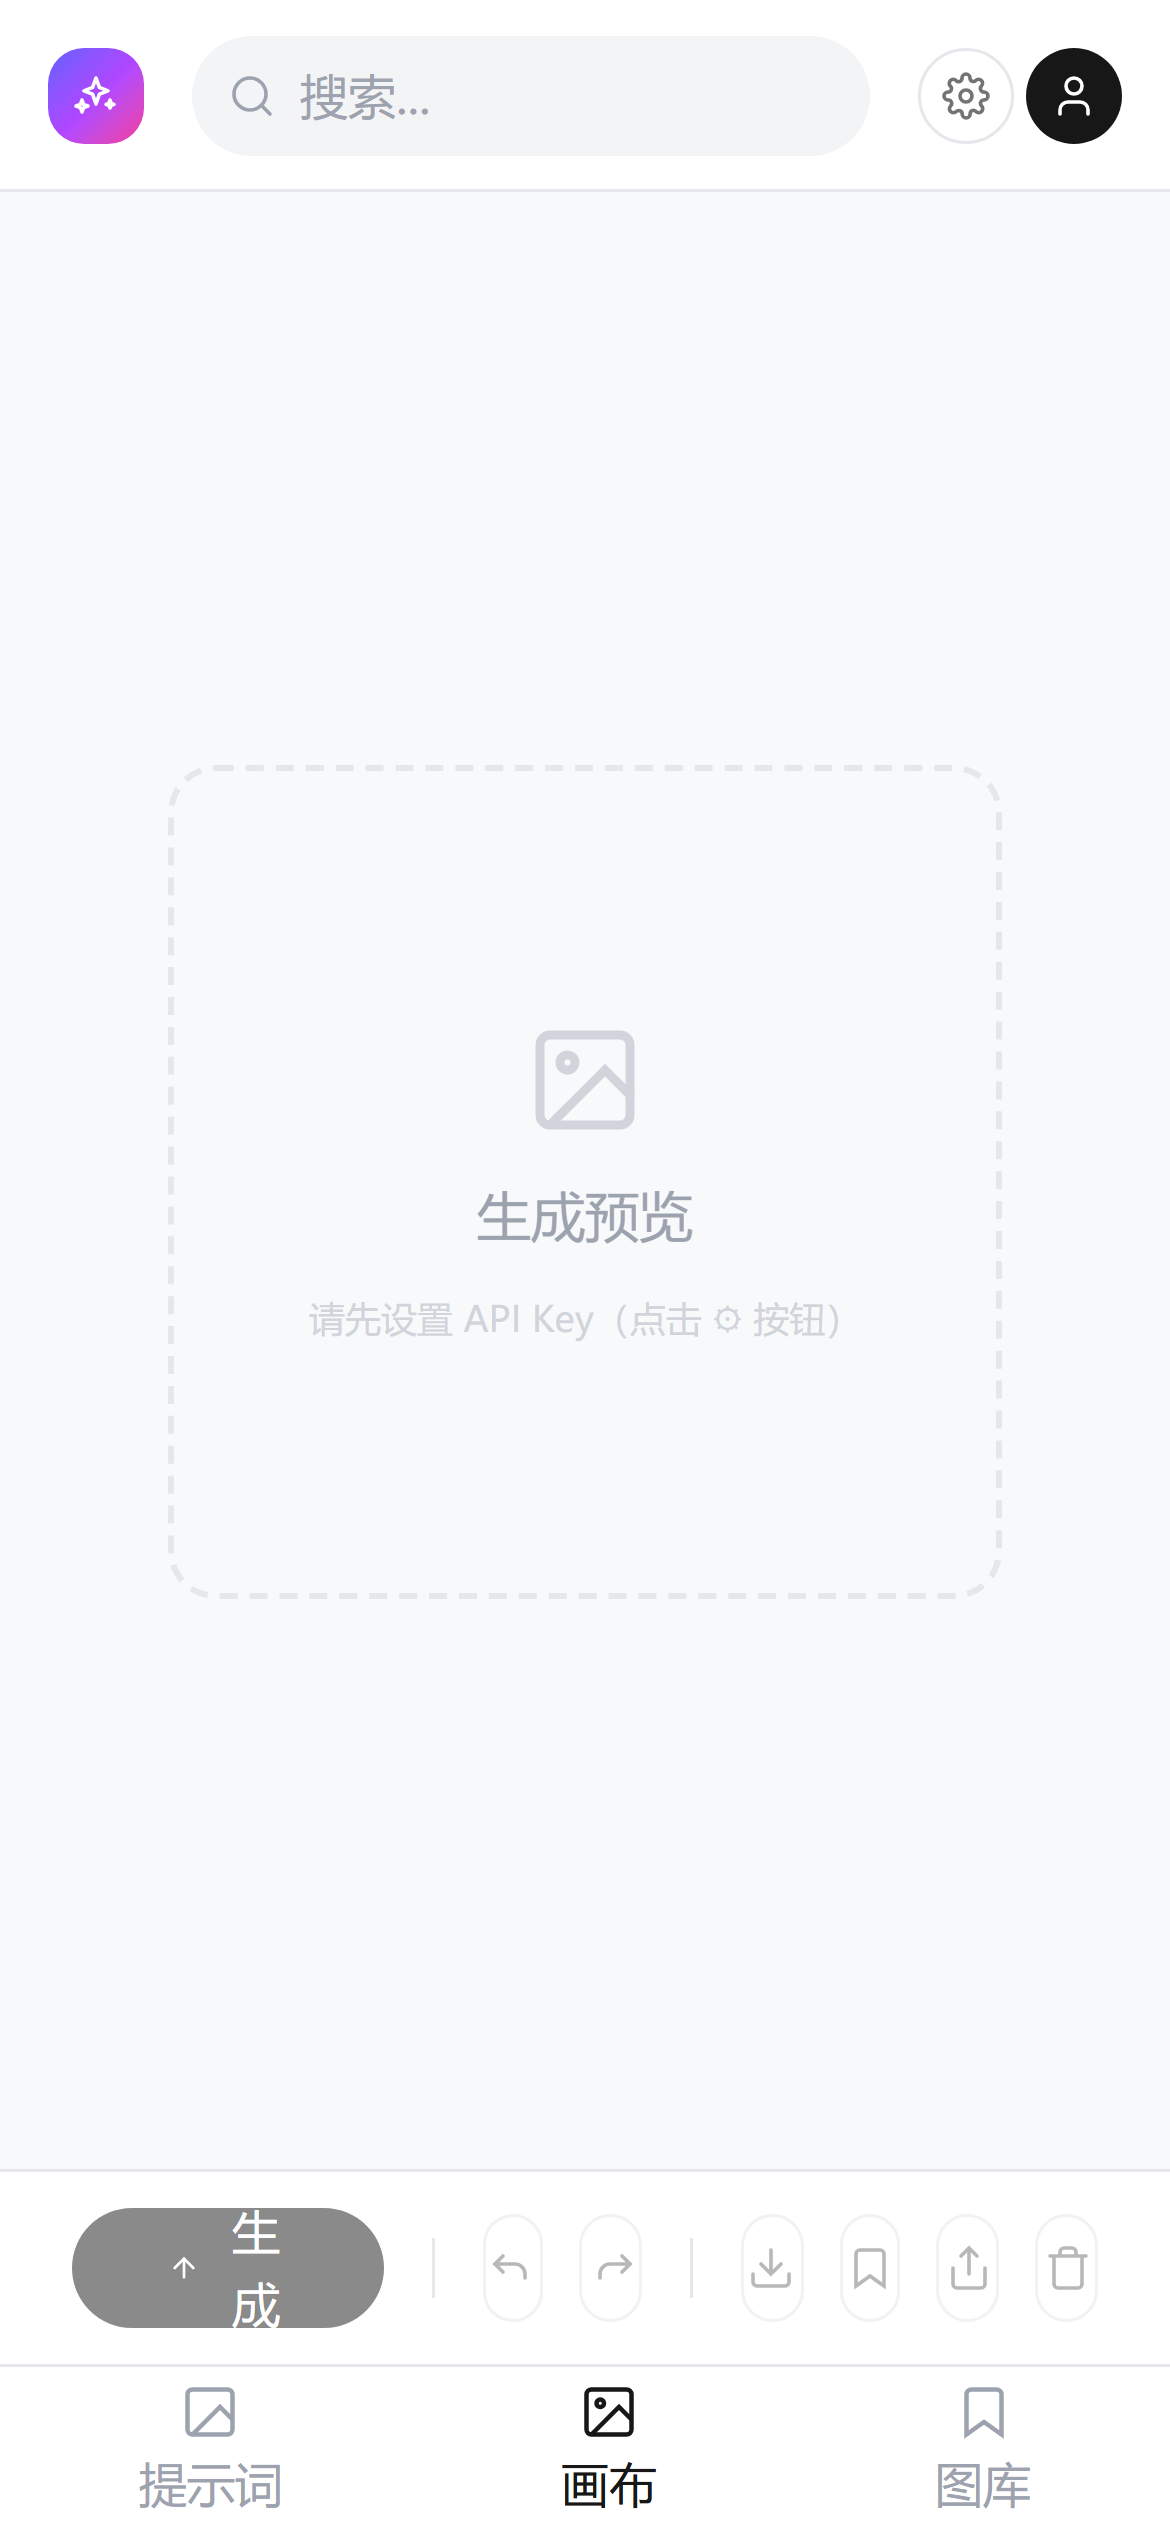
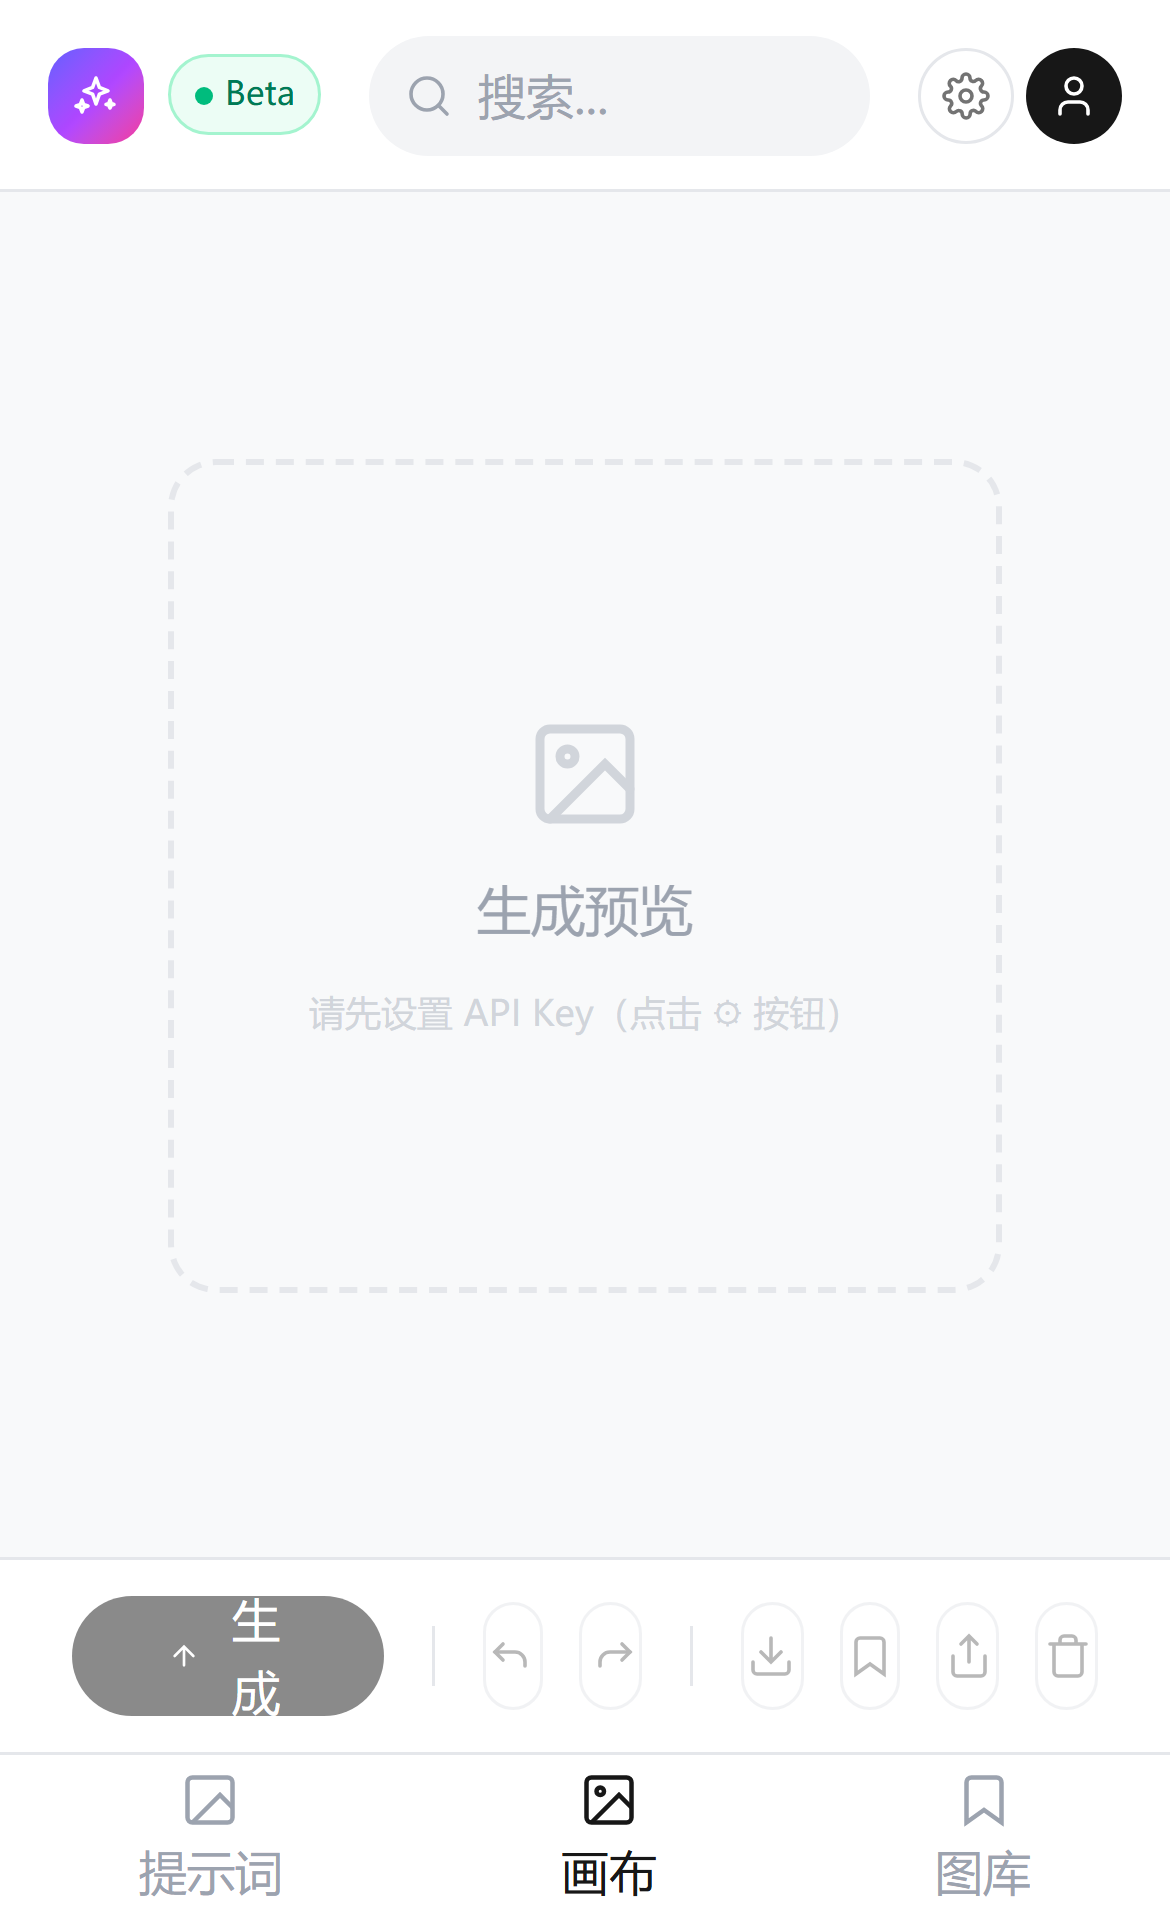
fix: improve generation progress and automation

diff --git a/src/components/layout/CanvasArea.tsx b/src/components/layout/CanvasArea.tsx
@@ -35,12 +35,27 @@ export default function CanvasArea() {
   const [errorMsg, setErrorMsg] = useState<string | null>(null);
   const [zoom, setZoom] = useState(1);
   const [generationProgress, setGenerationProgress] = useState<{ current: number; total: number } | null>(null);
+  const [elapsedSeconds, setElapsedSeconds] = useState(0);
 
   const clampZoom = (value: number) => Math.min(4, Math.max(0.25, value));
 
   useEffect(() => {
     setZoom(1);
   }, [generatedImage]);
+
+  useEffect(() => {
+    if (!isGenerating) {
+      setElapsedSeconds(0);
+      return;
+    }
+
+    const startedAt = Date.now();
+    const timer = window.setInterval(() => {
+      setElapsedSeconds(Math.floor((Date.now() - startedAt) / 1000));
+    }, 1000);
+
+    return () => window.clearInterval(timer);
+  }, [isGenerating]);
 
   const handleGenerate = useCallback(async () => {
     if (!prompt.trim() || isGenerating) return;
@@ -65,9 +80,10 @@ export default function CanvasArea() {
         : negativePrompt
           ? `${sizePrefix}避免: ${negativePrompt}. ${prompt}`
           : `${sizePrefix}${prompt}`;
-      let completed = 0;
-      const tasks = Array.from({ length: generateCount }, () =>
-        generateImage({
+
+      for (let i = 0; i < generateCount; i += 1) {
+        setGenerationProgress({ current: i, total: generateCount });
+        const imageUrl = await generateImage({
           prompt: fullPrompt,
           negativePrompt,
           model,
@@ -78,20 +94,13 @@ export default function CanvasArea() {
           referenceImages,
           apiKey,
           baseUrl,
-        }).then((imageUrl) => {
-          completed += 1;
-          setGenerationProgress({ current: completed, total: generateCount });
-          return imageUrl;
-        }),
-      );
+        });
 
-      const results = await Promise.all(tasks);
-
-      for (let i = 0; i < results.length; i += 1) {
-        setGeneratedImage(results[i]);
+        setGenerationProgress({ current: i + 1, total: generateCount });
+        setGeneratedImage(imageUrl);
         addHistory({
           id: `${Date.now()}-${i}`,
-          url: results[i],
+          url: imageUrl,
           prompt: prompt,
           model: model,
           timestamp: Date.now(),
@@ -219,6 +228,9 @@ export default function CanvasArea() {
             <p className="text-sm font-medium text-[#737373]">
               {generationProgress ? `正在生成 ${generationProgress.current}/${generationProgress.total}` : '正在生成中...'}
             </p>
+            <p className="text-xs font-medium text-[#9CA3AF]">
+              已等待 {elapsedSeconds}s
+            </p>
             <p className="text-xs text-[#9CA3AF] max-w-[280px] text-center">
               正在调用 {model} 请求生成图片，请稍候
             </p>
@@ -244,7 +256,9 @@ export default function CanvasArea() {
           {isGenerating ? (
             <>
               <div className="w-4 h-4 border-2 border-white border-t-transparent rounded-full animate-spin" />
-              {generationProgress ? `生成中 ${generationProgress.current}/${generationProgress.total}` : '生成中...'}
+              {generationProgress
+                ? `生成中 ${generationProgress.current}/${generationProgress.total} · ${elapsedSeconds}s`
+                : `生成中 ${elapsedSeconds}s`}
             </>
           ) : (
             <>

diff --git a/src/services/api.ts b/src/services/api.ts
@@ -67,8 +67,7 @@ export async function generateImage(params: GenerateParams): Promise<string> {
   });
 
   if (!resp.ok) {
-    const errText = await resp.text().catch(() => 'Unknown error');
-    throw new Error(`API 请求失败 (${resp.status}): ${errText}`);
+    throw new Error(await formatApiError(resp));
   }
 
   const data: ImagesGenerationsResponse = await resp.json();
@@ -101,6 +100,20 @@ function withCorsProxy(url: string): string {
   }
 
   return `${CORS_PROXY_URL}${url}`;
+}
+
+async function formatApiError(resp: Response): Promise<string> {
+  const errText = await resp.text().catch(() => '');
+
+  if (resp.status === 524) {
+    return 'API 请求失败 (524)：图片生成耗时过长，源站响应超时。请稍后重试，或减少一次生成张数。';
+  }
+
+  if (errText.trim().startsWith('<!DOCTYPE html') || errText.includes('<html')) {
+    return `API 请求失败 (${resp.status})：服务端返回了 HTML 错误页，请稍后重试。`;
+  }
+
+  return `API 请求失败 (${resp.status}): ${errText || 'Unknown error'}`;
 }
 
 export function getSizeForRatio(ratio: string): string {